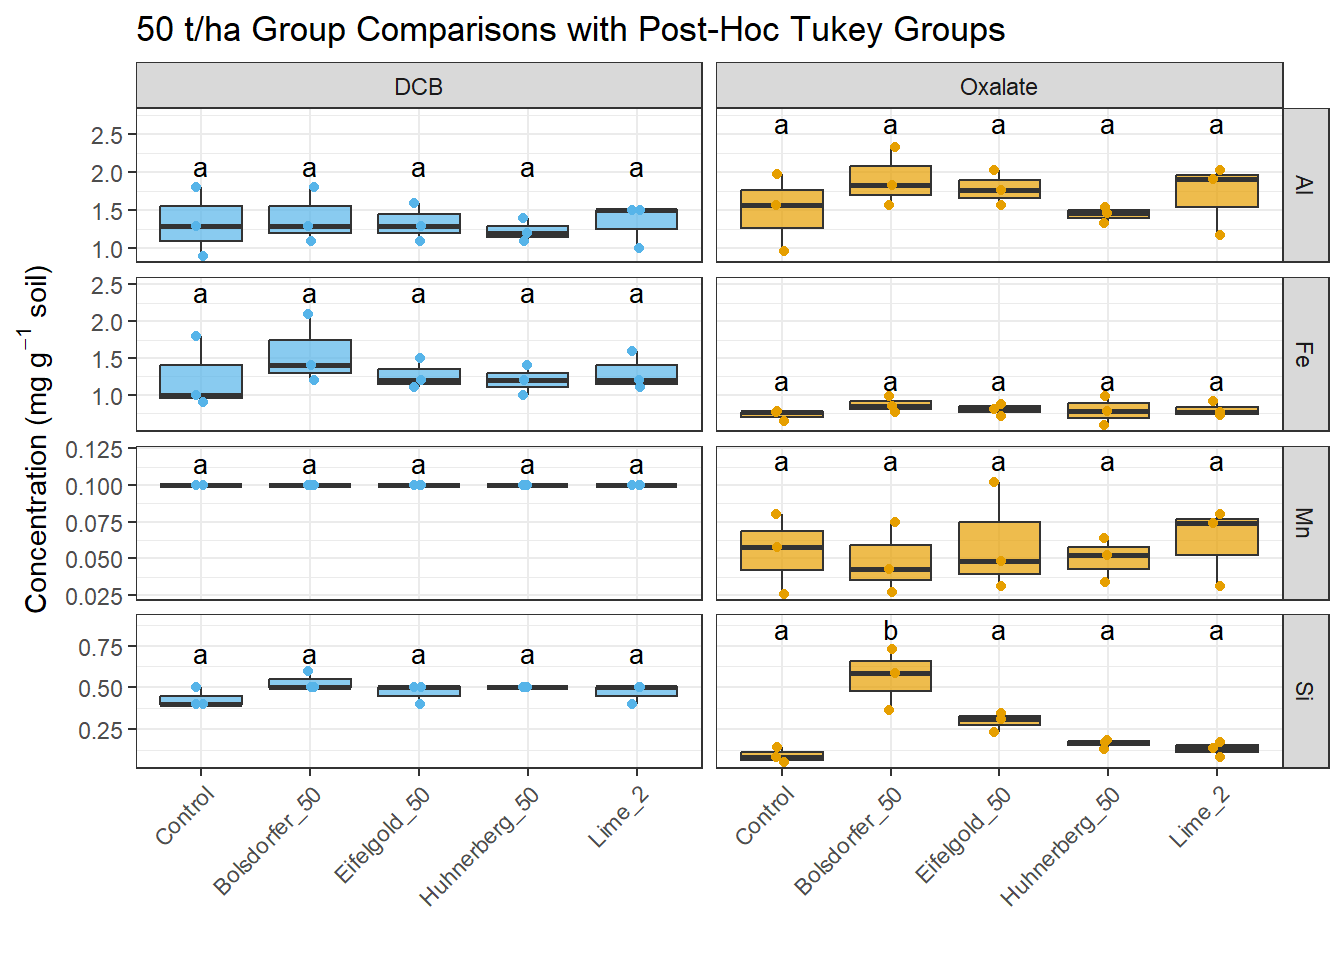
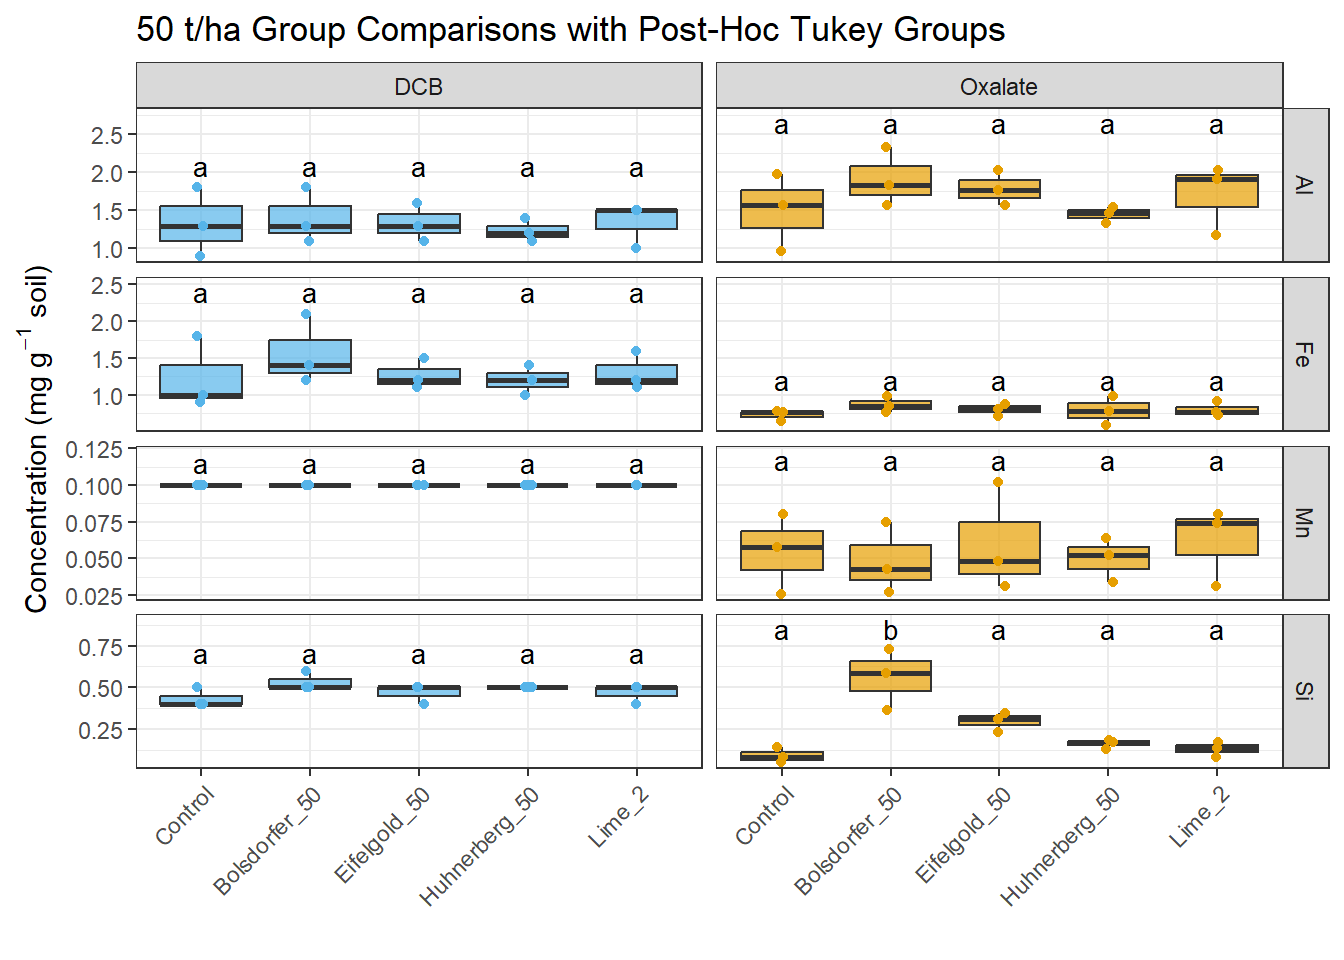
updated qmd and moved files

diff --git a/docs/dcb_oxalate_combined.html b/docs/dcb_oxalate_combined.html
@@ -93,7 +93,7 @@ ul.task-list li input[type="checkbox"] {
 </section>
 <section id="ratio-comparison" class="level2">
 <h2 class="anchored" data-anchor-id="ratio-comparison">Ratio comparison</h2>
-<p>We then compared ratios of amorphous to crystalline elements among different treatments.</p>
+<p>We then compared ratios of amorphous to crystalline elements among different treatments. DCB solution, which is more neutral to alkaline pH, is designed to reduce Fe oxides, but does not fully dissolve amorphous aluminosilicates formed by ERW, while acidic oxalate is more efficient at dissolving these. Therefore, we see much higher oxalate-Si relative to DCB-Si in the Bolsdorfer treatment. Meanwhile, iron-bearing minerals in the basalts release Fe2+ upon weathering, which can oxidize and form crystalline iron oxides, which explains why we see a bit more DCB-Fe relative to oxalate-Fe in the treatments compared to control.</p>
 <div class="cell">
 <div class="cell-output-display">
 <div>
